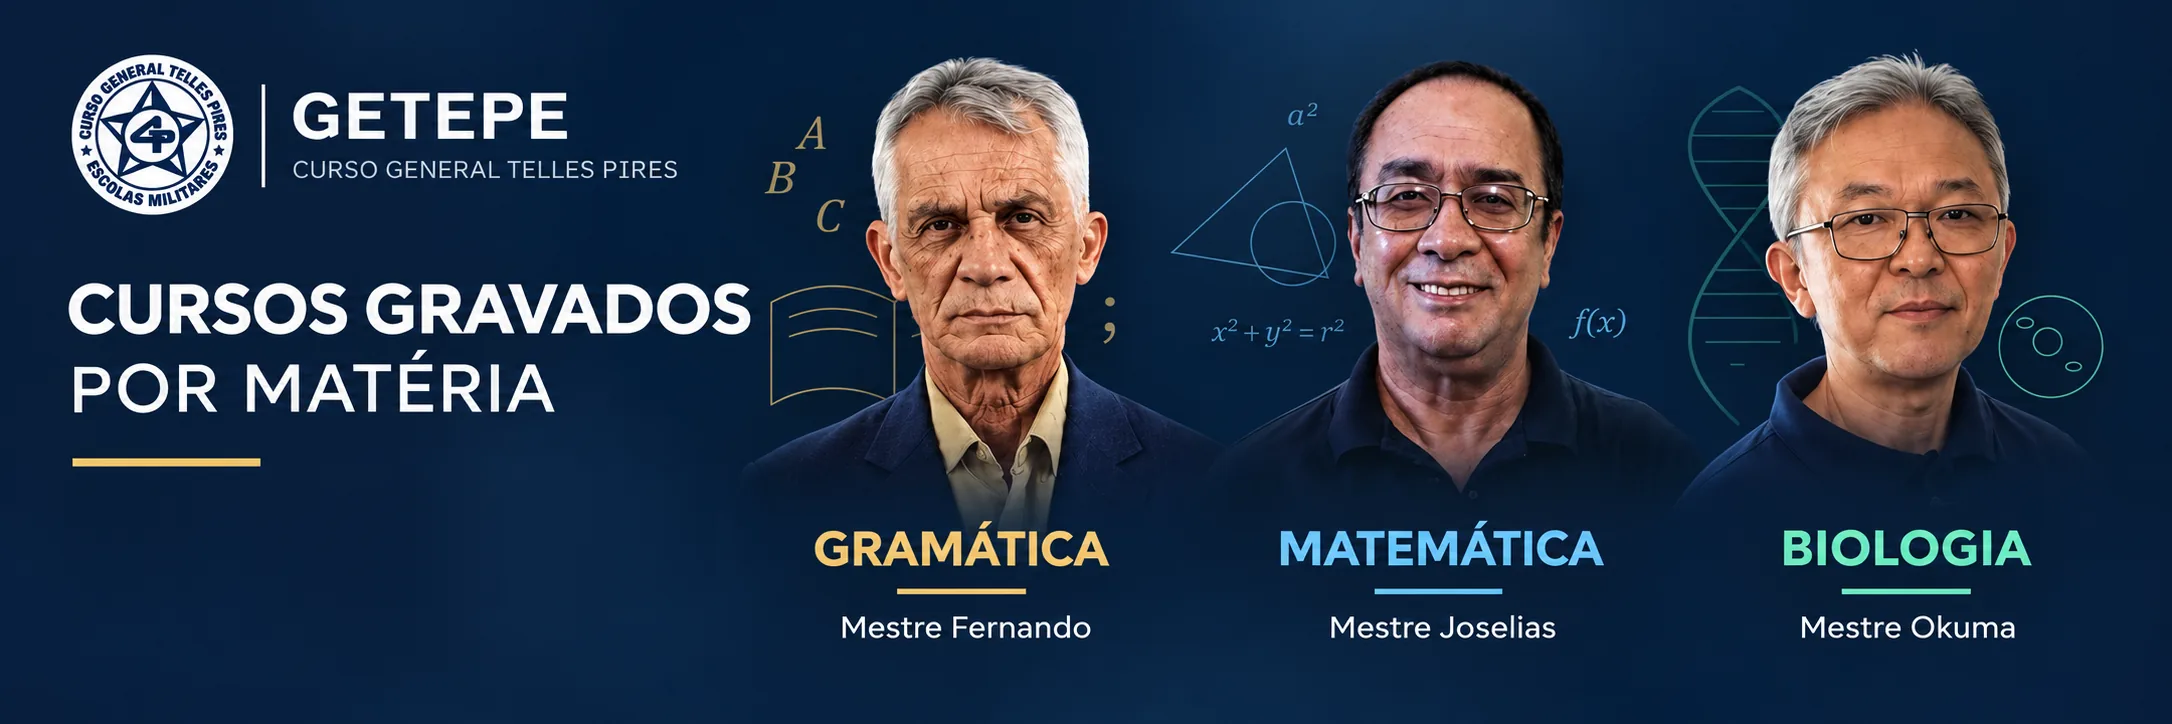
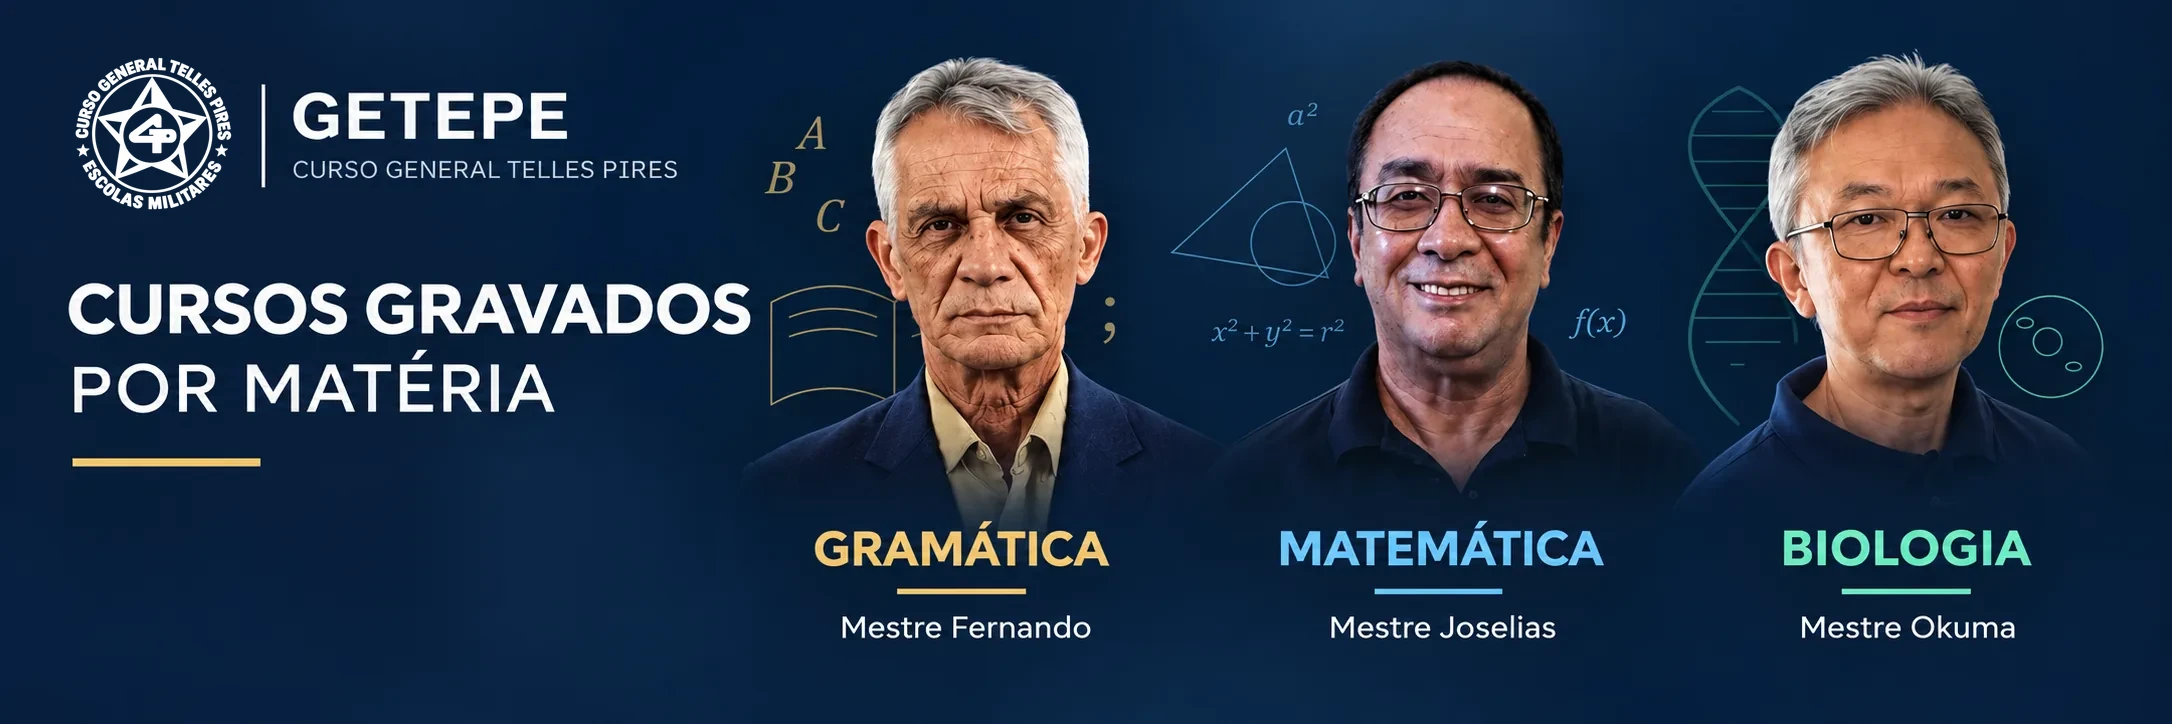
Destaque Cursos gravados com selo branco; medicao tolera espaco no ID
- Banner de cursos gravados: selo em disco branco trocado pelo selo branco sobre o fundo azul (webp e png)
- /api/medicao ignora espaco ou quebra de linha nos IDs GA4/Pixel vindos do Cloudflare

Changed region(s): [[0.0308, 0.0608, 0.1234, 0.3039]]

diff --git a/app/api/[...path]/route.ts b/app/api/[...path]/route.ts
@@ -51,7 +51,7 @@ async function handle(req:Request){
  if(path.startsWith('auth/'))return passwordAction(req,path);
  if(path==='content'&&req.method==='GET'){const row=await DB.prepare('SELECT body,revision FROM content WHERE id=?').bind('published').first<ContentRow>();return json({data:normalized(row?JSON.parse(row.body):seed),revision:row?.revision||0,serverNow:Date.now()});}
  // IDs públicos de medição (ficam nas variáveis do Cloudflare, não no repositório). Só formatos válidos saem.
- if(path==='medicao'&&req.method==='GET'){const e=bindings(),ga4=/^G-[A-Z0-9]{4,20}$/.test(e.GA4_ID||'')?e.GA4_ID:'',pixel=/^\d{6,20}$/.test(e.META_PIXEL_ID||'')?e.META_PIXEL_ID:'';return new Response(JSON.stringify({ga4,pixel}),{headers:{'Content-Type':'application/json; charset=utf-8','Cache-Control':'public, max-age=300','X-Content-Type-Options':'nosniff'}});}
+ if(path==='medicao'&&req.method==='GET'){const e=bindings(),g=(e.GA4_ID||'').trim(),px=(e.META_PIXEL_ID||'').trim(),ga4=/^G-[A-Z0-9]{4,20}$/.test(g)?g:'',pixel=/^\d{6,20}$/.test(px)?px:'';return new Response(JSON.stringify({ga4,pixel}),{headers:{'Content-Type':'application/json; charset=utf-8','Cache-Control':'public, max-age=300','X-Content-Type-Options':'nosniff'}});}
  if(path.startsWith('media/')&&req.method==='GET'){const key=path.slice(6);if(!/^[\w-]+\.(png|jpg|webp|pdf)$/.test(key))fail('Arquivo não encontrado.',404);const file=await BUCKET.get(key);if(!file)fail('Arquivo não encontrado.',404);return new Response(file.body,{headers:{'Content-Type':file.httpMetadata?.contentType||'application/octet-stream','Cache-Control':'public, max-age=31536000, immutable','X-Content-Type-Options':'nosniff',...(key.endsWith('.pdf')?{'Content-Disposition':'attachment; filename="material-getepe.pdf"','Content-Security-Policy':'sandbox'}:{})}});}
  if(path==='newsletter'&&req.method==='POST'){
   const b=await body(req,4096);if(b.website)return json({ok:true});
